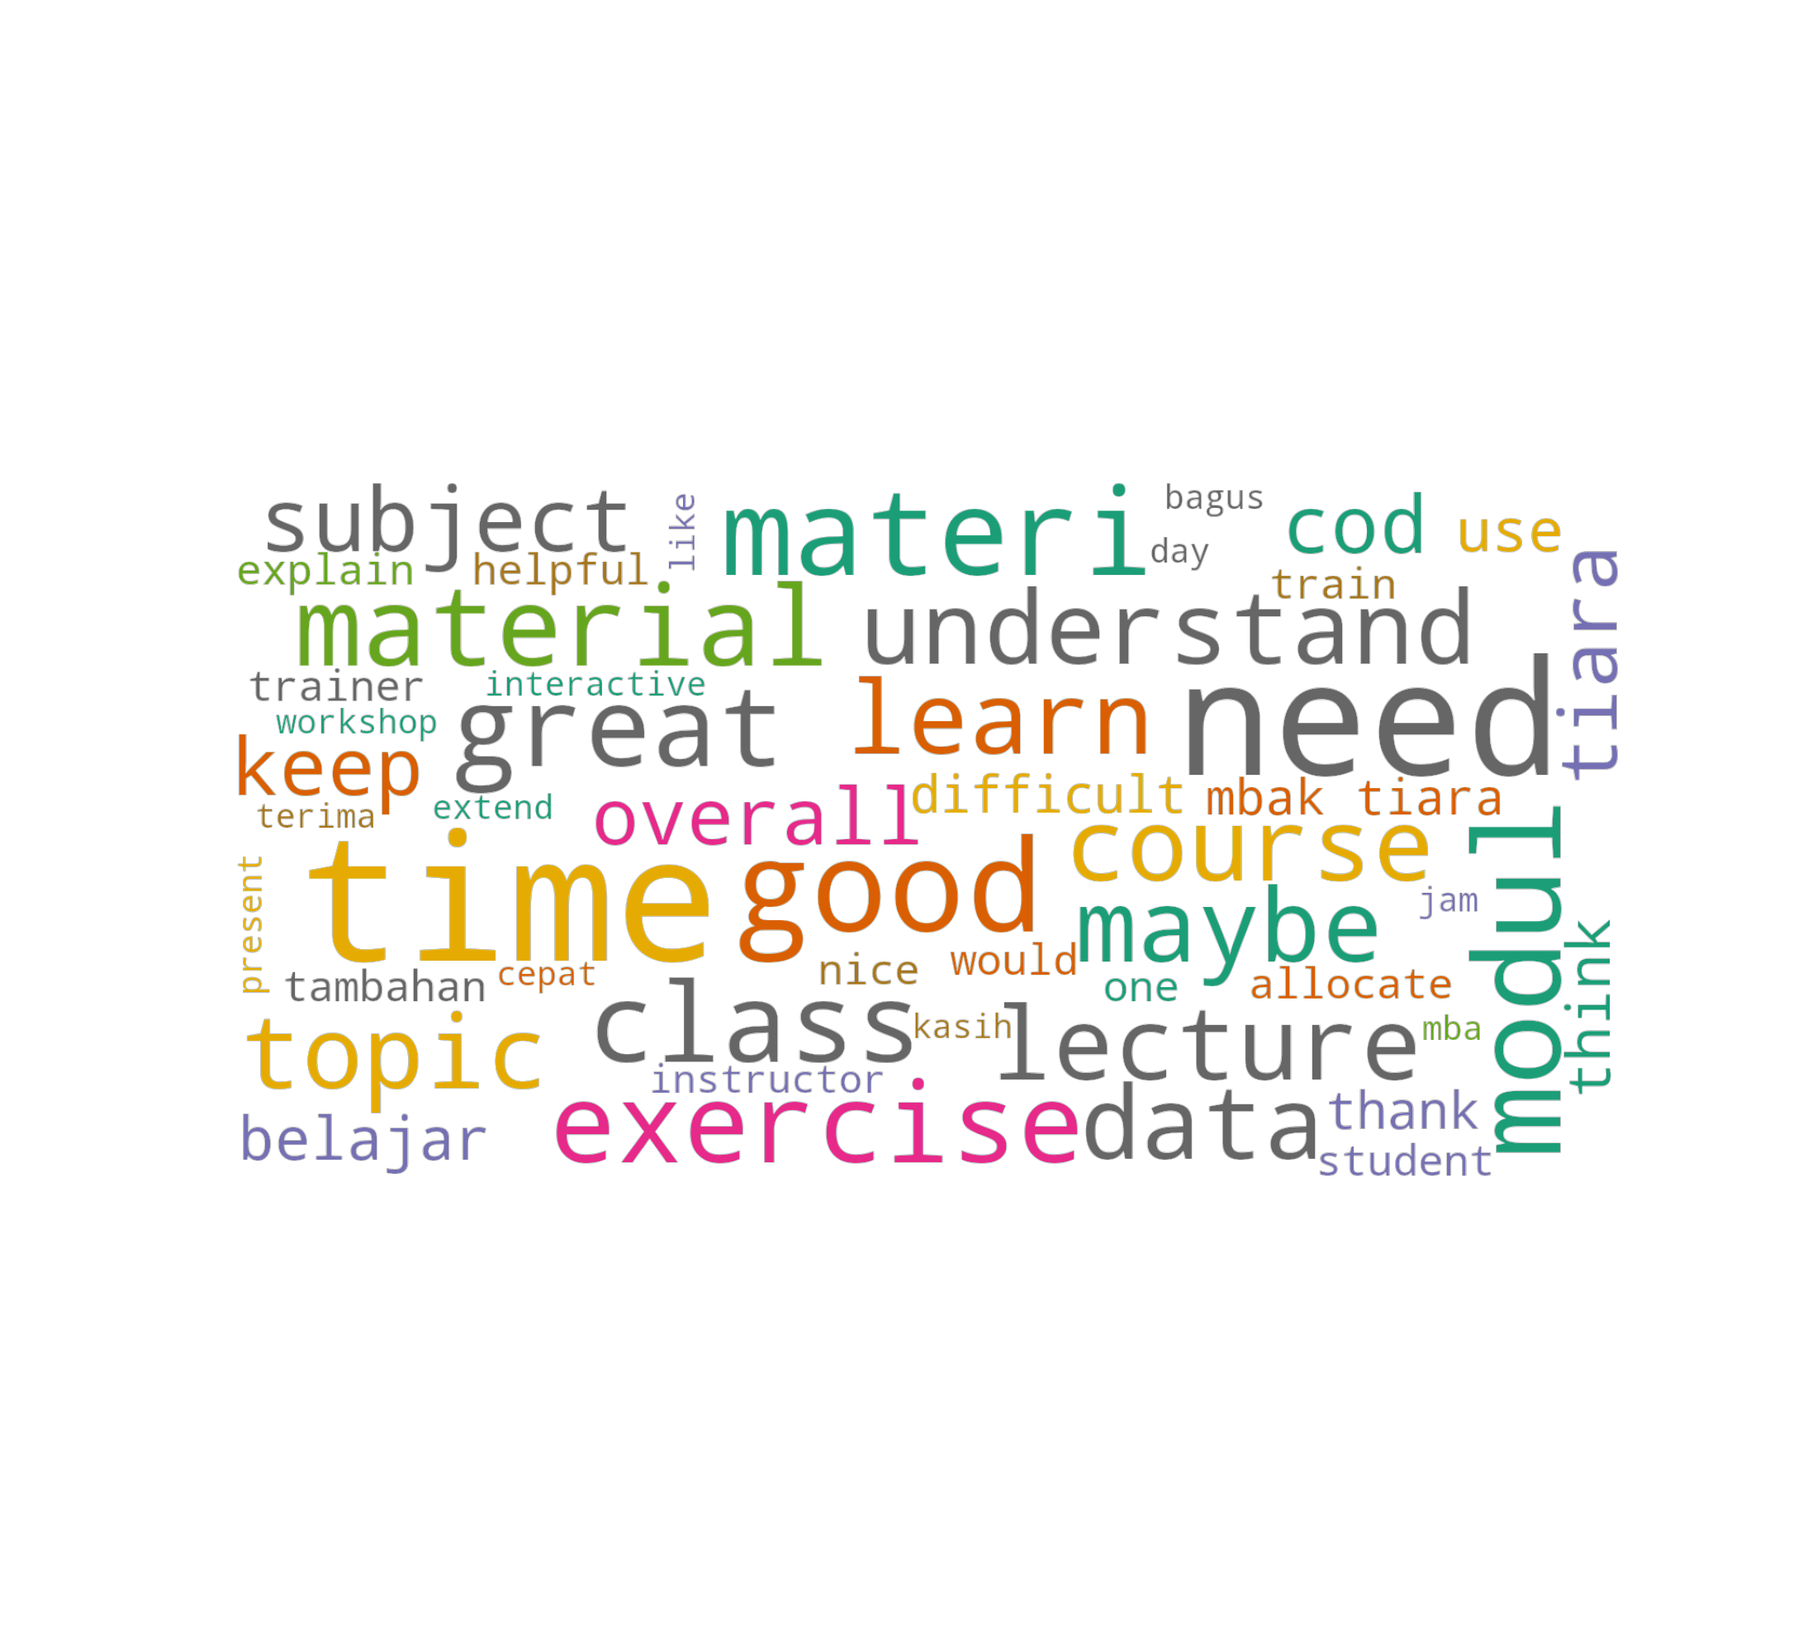
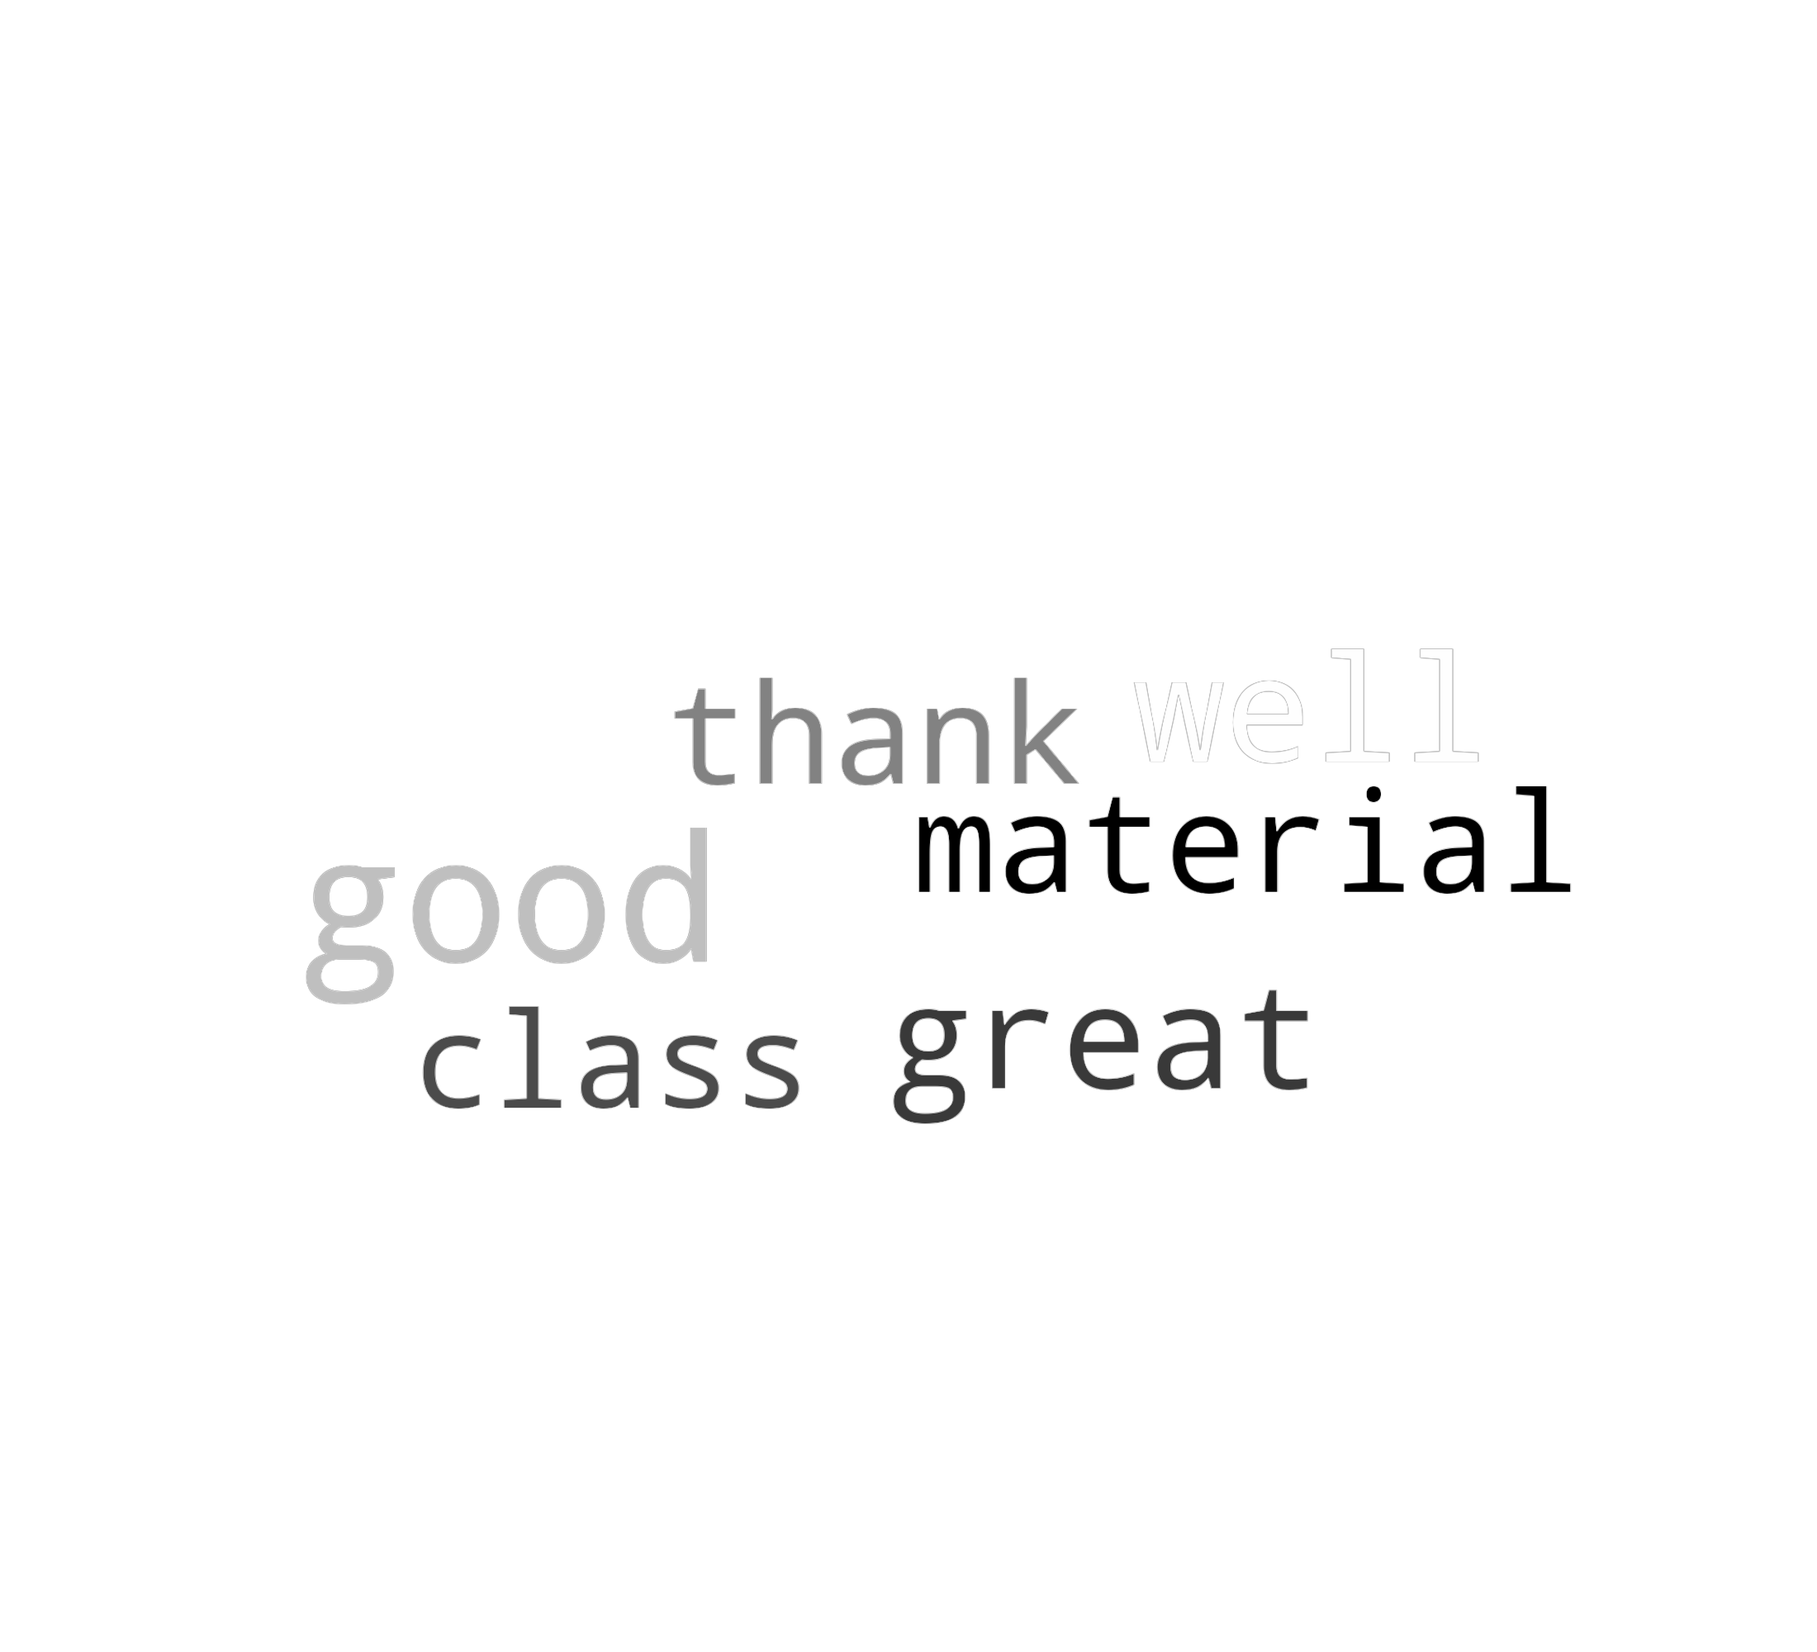
card reviews

Changed region(s): [[0.1236, 0.279, 0.8964, 0.713]]

diff --git a/app/templates/sub/single_response.html b/app/templates/sub/single_response.html
@@ -1,23 +1,66 @@
 <div class="card response-card">
-    <p class="card-text">{{ review['comments'] }}</p>
-    <ul>
-        {% if review['difficulty'] >= 4%}
-            <li><i class="material-icons">check</i>Lecture wasn't too difficult</li>
+    <div class="row" style="text-transform: capitalize;">
+        <div class="col-sm-6">
+            <h5 class="card-text">{{ review['workshop_name'] }}</h5>
+        </div>
+        <div class="col-sm-6">
+            <div class="row">
+                <div class="col-md-6">
+                    <h5 class="card-text">{{ review['overall'] }}</h5>
+                    <h6 class="card-text">Ratings</h6>
+                </div>
+                {% if review['sentiment'] == 'negative'%}
+                    <div class="col-md-6" style="color: #FFA07A">
+                        <h5 class="card-text" >{{ review['value'] }}%</h5>
+                        <h6 class="card-text">{{ review['sentiment'] }}</h6>
+                    </div>
+                {% elif review['sentiment'] == 'neutral'%}
+                    <div class="col-md-6" style="color: #FFDEAD">
+                        <h5 class="card-text">{{ review['value'] }}%</h5>
+                        <h6 class="card-text">{{ review['sentiment'] }}</h6>
+                    </div>
+                {% else %}
+                    <div class="col-md-6" style="color: #E0FFFF">
+                        <h5 class="card-text">{{ review['value'] }}%</h5>
+                        <h6 class="card-text">{{ review['sentiment'] }}</h6>
+                    </div>
+                {% endif %}
+            </div>
+        </div>
+    </div>
+    <hr/>
+    <h6>Sentiment:</h6>
+    <div class="row" style="text-align: center">
+        <div class="col-sm-12">
+            <div class="card-group">
+                {% for idx, data in personstats['monyear_percent'].iterrows() %}
+                    {% if data['workshop_id'] == review['workshop_id'] %}
+                        <div class="card response-card" style="background-color: #FFFFF0">
+                            {% if data['score'] == 'negative'%}
+                                <h6 class="card-text" style="color: #e41749">{{ data['value'] }}%</h6>
+                                <p class="card-text" style="color: #e41749">Negative</p>
+                            {% elif data['score'] == 'neutral'%}
+                                <h6 class="card-text" style="color: orange">{{ data['value'] }}%</h6>
+                                <p class="card-text" style="color: orange">Neutral</p>
+                            {% else %}
+                                <h6 class="card-text" style="color: steelblue">{{ data['value'] }}%</h6>
+                                <p class="card-text" style="color: steelblue">Positive</p>
+                            {% endif %}
+                        </div>
+                    {% endif %}
+                {% endfor %}
+            </div>
+        </div>
+    </div>
+    <hr/>
+    <h6>Reviews:</h6>
+    {% for comments in personstats['qualitative'].items %}
+        {% if (comments['workshop_id'] == review['workshop_id'])%}
+            <p class="card-text">{{comments['comments']}}</p>
+            <footer class="blockquote-footer">
+                <small>Student from {{ comments['workshop']}}</small>
+            </footer>
+            <hr/>
         {% endif %}
-        {% if review['difficulty'] >= 4%}
-            <li><i class="material-icons">check</i>Training was knowledgeable</li>
-        {% endif %}
-        {% if review['objectives'] >= 4 %}
-            <li><i class="material-icons">check</i>Training objectives were met</li>
-        {% endif %}
-        {% if review['timeliness'] >= 4 %}
-            <li><i class="material-icons">check</i>Time allocated was sufficient</li>
-        {% endif %}
-        {% if review['satisfaction_score'] >= 4 %}
-            <li><i class="material-icons">check</i>Great Overall Experience </li>
-        {% endif %}
-    </ul>
-    <footer class="blockquote-footer">
-        <small>Student from {{ review['workshop'] }}</small>
-    </footer>
+    {% endfor %}
 </div>

diff --git a/app/templates/accomplishment.html b/app/templates/accomplishment.html
@@ -148,19 +148,13 @@
     <div class="col-md-12 col-lg-12 col-sm-12">
         <div>
             <h4><i class="material-icons md-light">rate_review</i> Most Recent Reviews</h4>
-            <div class="card-columns">
-                {% for review in personstats['qualitative'].items %}
-                {% include "sub/single_response.html" %}
+            <div class="card-group">
+                {% for index, review in personstats['reviews'].iterrows() %}
+                    <div class="col-sm-4">
+                        {% include "sub/single_response.html" %}
+                    </div>
                 {% endfor %}
             </div>
-            <!-- {% for page in personstats['qualitative'].iter_pages() %}
-                    {% if page  %}
-                        <a href="{{ url_for('qualitative', id=current_user.id, page_num=page) }}">{{ page }}</a>
-                    {% else %}
-                        ...
-                    {% endif %}
-                    
-                {% endfor %} -->
         </div>
     </div>
 </div>

diff --git a/app/static/css/pedagogy.css b/app/static/css/pedagogy.css
@@ -175,8 +175,14 @@ ul.timeline > li:before {
 }
 
 p.card-text {
+    padding: 0px 0px;
     color: white;
     font-weight: bolder;
+    font-size: 0.8em;
+}
+
+.card-deck .card.response-card {
+    column-count: 3;
 }
 
 .blockquote-footer {

diff --git a/app/analytics.py b/app/analytics.py
@@ -54,15 +54,30 @@ nltk.data.path.append(str(Path().absolute()) + "/nltk_data")
 from wordcloud import WordCloud
 import matplotlib.pyplot as plt
 
-def getresponse():
-    responses = pd.read_sql_query("SELECT e.id, e.name as instructor, w.workshop_name, w.workshop_start as time_stamp, comments\
-                        FROM response\
-                        LEFT JOIN workshop w ON w.id = response.workshop_id\
-                        LEFT JOIN employee e ON e.id = w.workshop_instructor", conn, parse_dates='time_stamp')
+def get_response():
+    responses = pd.read_sql_query("SELECT  response.*, e.id as employee_id, w.workshop_name, w.workshop_start as timestamp\
+                              FROM response\
+                              LEFT JOIN workshop w ON w.id = response.workshop_id\
+                              LEFT JOIN employee e ON e.id = w.workshop_instructor", conn, parse_dates='timestamp')
 
     responses['comments'] = responses['comments'].astype(str)
-    responses['month_year'] = responses['time_stamp'].dt.to_period('M').astype(str)
+    responses[responses.columns[2:9]] = responses[responses.columns[2:9]].astype(float)
+
+    sixmonths = datetime.datetime.now() - datetime.timedelta(weeks=26)
+    responses = responses[responses.timestamp >= sixmonths]
     return responses
+
+def get_sentiment_data(responses):
+    
+    return responses[['workshop_id','workshop_name','employee_id','timestamp','comments']].copy()
+
+def get_reviews_data(responses):
+    column_reviews = responses.columns[1:9]
+    reviews = responses[column_reviews].copy()
+    reviews['employee_id'] = responses['employee_id'].copy()
+    reviews['timestamp'] = responses['timestamp'].copy()
+
+    return reviews
 
 def lemmatize_with_postag(sentence):
     sent = TextBlob(sentence)
@@ -72,15 +87,15 @@ def lemmatize_with_postag(sentence):
                 "R": 'r'}
     words_and_tags = [(w, tag_dict.get(pos[0], 'n')) for w, pos in sent.tags]    
     lemmatized_list = [wd.lemmatize(tag) for wd, tag in words_and_tags]
-    #return lemmatized_list
+    
     return " ".join(lemmatized_list)
 
-def check_id(sent):
+def check_id(sentence):
     with open(str(Path().absolute())+"\\nltk_data\\neg_id.txt") as f: dataneg = f.readlines()  
     with open(str(Path().absolute())+"\\nltk_data\\pos_id.txt") as f: datapos = f.readlines()   
     score = 0
     
-    for word in sent:
+    for word in sentence:
         for line in datapos:
             if word in line:
                 score += float(line.split()[-1])
@@ -90,10 +105,10 @@ def check_id(sent):
                 
     return score
 
-def get_score(sent):
+def get_score(sentence):
     analyser = SentimentIntensityAnalyzer()
-    score = analyser.polarity_scores(sent)
-    sent_list = sent.split()
+    score = analyser.polarity_scores(sentence)
+    sentence_list = sentence.split()
   
     if score['neg'] != 0 or score['pos'] != 0:
         if score['neg'] > score['pos']:
@@ -101,27 +116,33 @@ def get_score(sent):
         else:
             return 'positive'
     else:
-        if check_id(sent_list) > 0:
+        if check_id(sentence_list) > 0:
             return 'positive'
-        elif check_id(sent_list) < 0:
+        elif check_id(sentence_list) < 0:
             return 'negative'
         return 'neutral'
 
-def presentiment(responses, all_stopwords):
-    responses['comments'].replace(['','None'], np.nan, inplace=True)
-    responses.dropna(inplace=True)
-    responses['comments'] = responses['comments'].apply(lambda x: x.lower())
-    responses['comments'] = responses['comments'].apply(lambda x: x.translate(str.maketrans("","", string.punctuation)))
-    responses['comments'] = responses['comments'].apply(lambda x: x.translate(str.maketrans("","", string.digits)))
-    responses['comments'] = responses['comments'].apply(lambda x: re.sub(' +', ' ',x).strip())
-    responses['comments'] = responses['comments'].apply(lambda x: word_tokenize(x))
-    responses['comments'] = responses['comments'].apply(lambda x: [word for word in x if word not in all_stopwords])
-    responses['comments'] = responses['comments'].apply(lambda x: lemmatize_with_postag(' '.join(x)))
+def presentiment(sentiment, all_stopwords):
+    sentiment['comments'].replace(['','None'], np.nan, inplace=True)
+    sentiment.dropna(inplace=True)
+    sentiment['comments'] = sentiment['comments'].apply(lambda x: x.lower())
+    sentiment['comments'] = sentiment['comments'].apply(lambda x: x.translate(str.maketrans("","", string.punctuation)))
+    sentiment['comments'] = sentiment['comments'].apply(lambda x: x.translate(str.maketrans("","", string.digits)))
+    sentiment['comments'] = sentiment['comments'].apply(lambda x: re.sub(' +', ' ',x).strip())
+    sentiment['comments'] = sentiment['comments'].apply(lambda x: word_tokenize(x))
+    sentiment['comments'] = sentiment['comments'].apply(lambda x: [word for word in x if word not in all_stopwords])
+    sentiment['comments'] = sentiment['comments'].apply(lambda x: lemmatize_with_postag(' '.join(x)))
     
-    responses['score'] = ''
-    responses['score'] = responses['comments'].apply(lambda x: get_score(x))
+    sentiment['score'] = ''
+    sentiment['score'] = sentiment['comments'].apply(lambda x: get_score(x))
 
-    return responses
+    return sentiment
+
+def prereviews(reviews):
+    reviews.fillna(3, inplace=True)
+    reviews['overall'] = round(reviews[reviews.columns[1:8]].sum(axis=1)/7,1)
+
+    return reviews
 
 stopwords_en = set(stopwords.words('english'))
 stopwords_id = []
@@ -130,36 +151,68 @@ words = urllib.request.urlopen("http://static.hikaruyuuki.com/wp-content/uploads
 for word in words: stopwords_id.append(word.strip().decode('utf-8'))
 all_stopwords = set(stopwords_id).union(stopwords_en)
 
-response = getresponse()
-response = presentiment(response, all_stopwords)
+response = get_response()
+
+sentiment = get_sentiment_data(response)
+sentiment = presentiment(sentiment, all_stopwords)
+
+reviews = get_reviews_data(response)
+reviews = prereviews(reviews)
+
 domain = ['negative', 'neutral', 'positive']
 colors = ['#8f9fb3', '#d1d8e2', '#7dbbd2cc']
 
-@app.route('/data/person_sentiment')
-def person_sentiment():
+def get_params():
     emp = getuserdb()
     dat = emp.loc[emp.this_user == True,:].copy()
     emp_id = dat.iloc[0]['workshop_instructor']
-
-    responses = response.copy()
     sixmonths = datetime.datetime.now() - datetime.timedelta(weeks=26)
-    person = responses[(responses.id==emp_id) & (responses.time_stamp >= sixmonths)]
+    
+    return emp_id, sixmonths
 
-    monyear_percent = pd.crosstab([person['time_stamp'],person['workshop_name']],person['score']).apply(lambda x: round(x/x.sum()*100,2), axis=1).reset_index().melt(id_vars=['time_stamp','workshop_name'])
+def get_overall_sentiment():
+    emp_id, sixmonths = get_params()
+    person = sentiment[sentiment.employee_id==emp_id].copy()
 
-    chart = alt.Chart(monyear_percent, title='Sentiment for The Last 6 Months').mark_line(point=True).encode(
+    return pd.crosstab([person['timestamp'],person['workshop_name'],person['workshop_id']],person['score']).apply(lambda x: round(x/x.sum()*100,2), axis=1).reset_index().melt(id_vars=['timestamp','workshop_name','workshop_id'])
+
+def get_overall_reviews(monyear_percent):
+    emp_id, sixmonths = get_params()
+    
+    filter_idx = monyear_percent.groupby(['workshop_id'])['value'].transform(max) == monyear_percent['value']
+    al_reviews = monyear_percent[filter_idx]
+    al_reviews.sort_values(by=['score'], inplace=True)
+    al_reviews.drop_duplicates(subset='workshop_id', keep="first", inplace=True)
+
+    person_reviews = reviews[(reviews.employee_id==emp_id) & (reviews.timestamp >= sixmonths)]
+    person_reviews['overall'] = round(reviews[reviews.columns   [1:8]].sum(axis=1)/7,1)
+
+    sm_reviews = person_reviews[['overall', 'workshop_id']].groupby(['workshop_id']).mean().round(1)
+    sm_reviews.reset_index(inplace=True)
+
+    sm_reviews['workshop_name'] = sm_reviews['workshop_id'].map(al_reviews.set_index('workshop_id')['workshop_name'])
+    sm_reviews['sentiment'] = sm_reviews['workshop_id'].map(al_reviews.set_index('workshop_id')['score'])
+    sm_reviews['value'] = sm_reviews['workshop_id'].map(al_reviews.set_index('workshop_id')['value'])
+    
+    return sm_reviews
+
+@app.route('/data/person_sentiment')
+def vis_overall_sentiment():
+    monyear_percent = get_overall_sentiment()
+
+    chart = alt.Chart(monyear_percent, title='Sentiment in The Last 6 Months').mark_line(point=True).encode(
         y=alt.Y('value:Q', scale=alt.Scale(domain=(0, 100)), axis=alt.Axis(title='Percentage (%)')),
-        x=alt.X('workshop_name:N',sort=alt.EncodingSortField(field="time_stamp:T", order='ascending'), axis=alt.Axis(title='Workshop Name')),
+        x=alt.X('timestamp:T', axis=alt.Axis(title='Date')),
         color=alt.Color('score', scale=alt.Scale(domain=domain, range=colors), legend=alt.Legend(title="Sentiment")),
-        tooltip=[alt.Tooltip('value:Q', title="Percentage"), alt.Tooltip('score', title="Sentiment")],
-        order="time_stamp:T"
+        tooltip=[alt.Tooltip('value:Q', title="Percentage"), alt.Tooltip('score', title="Sentiment"), alt.Tooltip('workshop_name:N', title="Workshop")],
+        # order="time_stamp:T"
     ).properties(width=800, height=300).configure_axis(
         labelColor='#bbc6cbe6',
-        titleColor='#bbc6cbe6', 
+        titleColor='#bbc6cbe6',
         grid=False
     )
 
-    wd_list = responses[responses.id==emp_id].comments
+    wd_list = sentiment.comments
     all_words = ' '.join([text for text in wd_list])
     wordcloud = WordCloud(
         background_color="rgba(255, 255, 255, 0)", mode="RGBA",
@@ -167,8 +220,8 @@ def person_sentiment():
         width=1600,
         height=800,
         random_state=21,
-        colormap='Dark2',
-        max_words=50,
+        colormap='Greys_r',
+        max_words=6,
         max_font_size=200).generate(all_words)
     plt.figure(figsize=(22,20))
     plt.axis('off')
@@ -670,7 +723,9 @@ def factory_accomplishment(u):
         Response.workshop_id.in_(w.id for w in workshops), Response.comments != '').join(
             Workshop, isouter=True).order_by(
                 Workshop.workshop_start.desc()).paginate(
-                    per_page=20, page=1, error_out=True)
+                    per_page=90, page=1, error_out=True)
+
+    monyear_percent = get_overall_sentiment()
 
     stats = {
             # 'joindate': u.join_date,
@@ -684,6 +739,8 @@ def factory_accomplishment(u):
             'fullstar': fullstar,
             'responsecount': len(responses),
             'qualitative': qualitative,
+            'monyear_percent': monyear_percent,
+            'reviews': get_overall_reviews(monyear_percent), 
             'topten': df[df.name != 'Capstone'].loc[:,['name','workshop_hours', 'class_size']].groupby(
                 'name').sum().sort_values(
                     by='workshop_hours', 
